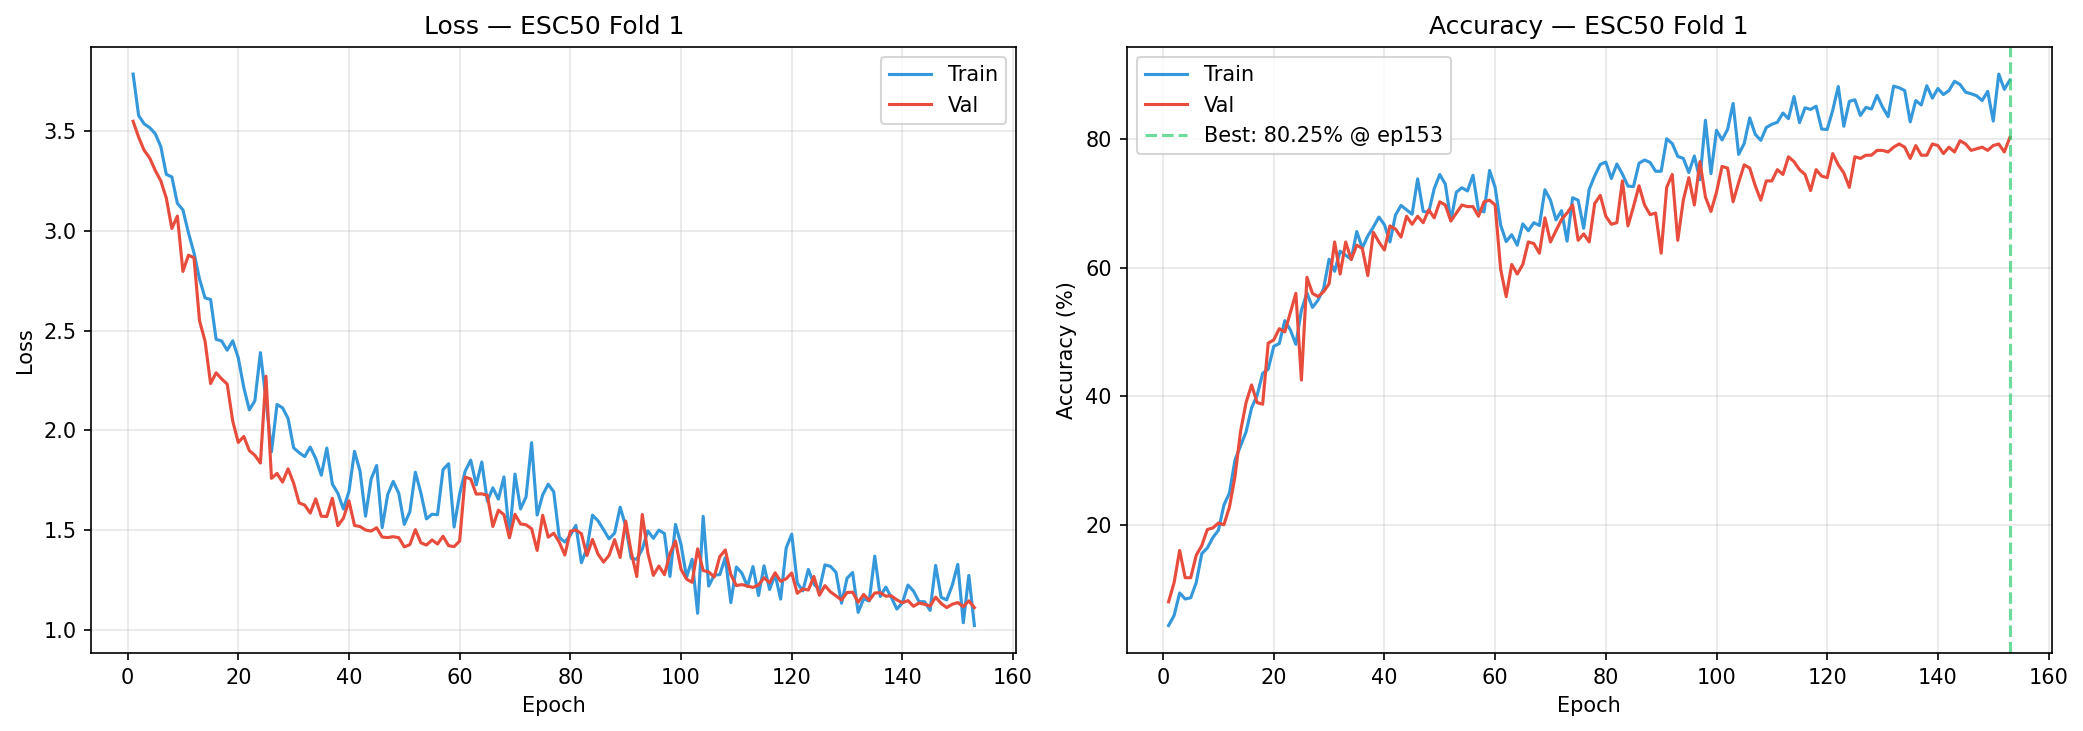
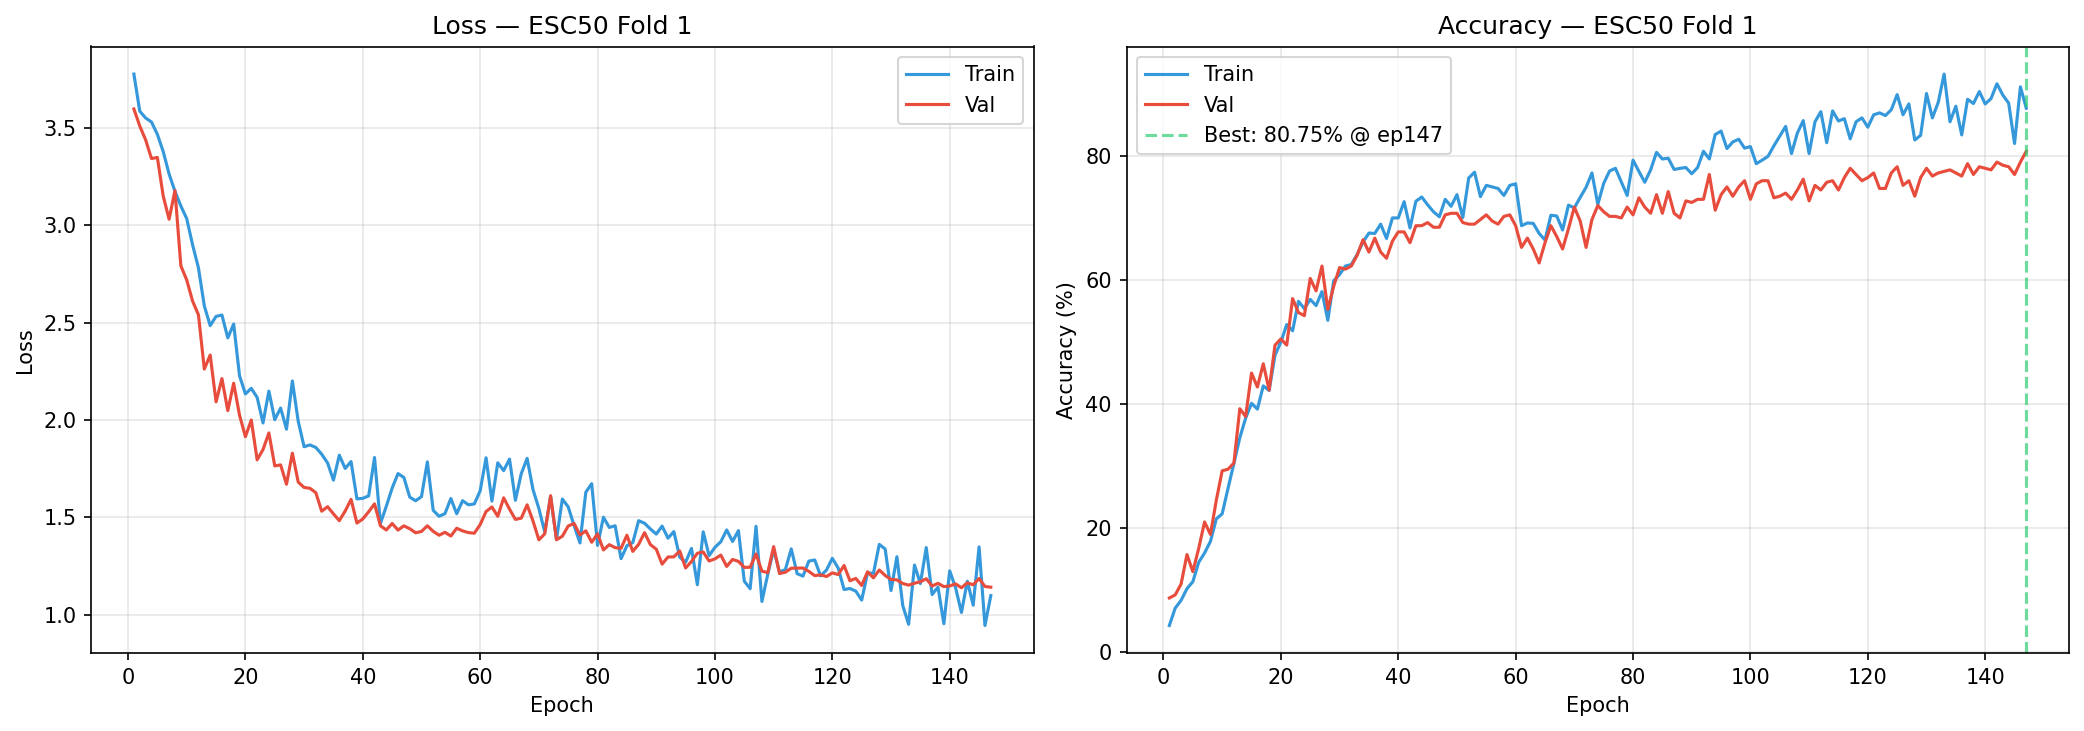
Upgraded MR-AFCNN activations to SiLU, reached 80.75% validation accuracy

diff --git a/train.py b/train.py
@@ -55,8 +55,9 @@ def set_seed(seed: int = 42):
     np.random.seed(seed)
     torch.manual_seed(seed)
     torch.cuda.manual_seed_all(seed)
-    torch.backends.cudnn.deterministic = True
-    torch.backends.cudnn.benchmark     = False
+    # For fixed-size convolutions (like 128x128 mels), benchmark=True is much faster
+    torch.backends.cudnn.deterministic = False
+    torch.backends.cudnn.benchmark     = True
 
 
 # ---------------------------------------------------------------------------
@@ -79,7 +80,7 @@ class TrainConfig:
 
     # Training
     BATCH_SIZE:    int   = 32
-    NUM_WORKERS:   int   = 4
+    NUM_WORKERS:   int   = 0
     EPOCHS:        int   = 200
     GRAD_CLIP:     float = 5.0
 
@@ -308,12 +309,12 @@ def train_fold(
     # ---- Data loaders ----
     train_dl = get_dataloader(
         train_ds, batch_size=TCFG.BATCH_SIZE,
-        shuffle=True,  num_workers=TCFG.NUM_WORKERS,
+        shuffle=True,  num_workers=args.num_workers,
         use_mixup=TCFG.USE_MIXUP, mixup_alpha=TCFG.MIXUP_ALPHA
     )
     test_dl = get_dataloader(
         test_ds, batch_size=TCFG.BATCH_SIZE,
-        shuffle=False, num_workers=TCFG.NUM_WORKERS,
+        shuffle=False, num_workers=args.num_workers,
         use_mixup=False
     )
 
@@ -555,6 +556,8 @@ def parse_args():
                    help=f'Learning rate (default: {TCFG.LR})')
     p.add_argument('--base_channels', type=int, default=64,
                    help='Base channel width (default: 64)')
+    p.add_argument('--num_workers', type=int, default=TCFG.NUM_WORKERS,
+                   help=f'Number of data loading workers (default: {TCFG.NUM_WORKERS})')
     p.add_argument('--no_mixup', action='store_true',
                    help='Disable Mixup augmentation')
     p.add_argument('--no_amp', action='store_true',
@@ -563,6 +566,7 @@ def parse_args():
                    help='Cache all spectrograms in RAM')
     p.add_argument('--resume', type=str, default=None,
                    help='Path to checkpoint to resume from')
+
     p.add_argument('--seed', type=int, default=TCFG.SEED,
                    help=f'Random seed (default: {TCFG.SEED})')
     return p.parse_args()
@@ -579,5 +583,6 @@ if __name__ == '__main__':
     TCFG.AMP        = not args.no_amp
     TCFG.CACHE      = args.cache
     TCFG.SEED       = args.seed
+    TCFG.NUM_WORKERS = args.num_workers
 
     run_cross_validation(args)

diff --git a/model.py b/model.py
@@ -7,7 +7,7 @@ class DepthwiseSeparableConv(nn.Module):
         self.depthwise = nn.Conv2d(in_ch, in_ch, kernel_size=3, padding=1, stride=stride, groups=in_ch, bias=False)
         self.pointwise = nn.Conv2d(in_ch, out_ch, kernel_size=1, bias=False)
         self.bn = nn.BatchNorm2d(out_ch)
-        self.relu = nn.ReLU(inplace=True)
+        self.relu = nn.SiLU(inplace=True)
 
     def forward(self, x):
         return self.relu(self.bn(self.pointwise(self.depthwise(x))))
@@ -17,7 +17,7 @@ class MRAFCNNBlock(nn.Module):
         super().__init__()
         self.conv1 = nn.Conv2d(in_ch, out_ch, kernel_size=1, bias=False)
         self.bn1 = nn.BatchNorm2d(out_ch)
-        self.relu = nn.ReLU(inplace=True)
+        self.relu = nn.SiLU(inplace=True)
         # Expected by GradCAM in evaluate.py: target_layer = model.stage3[-1].conv2.pointwise
         self.conv2 = DepthwiseSeparableConv(out_ch, out_ch, stride=stride)
         
@@ -32,7 +32,7 @@ class MRAFCNNBlock(nn.Module):
         self.ca = nn.Sequential(
             nn.AdaptiveAvgPool2d(1),
             nn.Conv2d(out_ch, out_ch // 4 if out_ch // 4 > 0 else 1, 1),
-            nn.ReLU(inplace=True),
+            nn.SiLU(inplace=True),
             nn.Conv2d(out_ch // 4 if out_ch // 4 > 0 else 1, out_ch, 1),
             nn.Sigmoid()
         )
@@ -51,7 +51,7 @@ class MRAFCNN(nn.Module):
         self.stem = nn.Sequential(
             nn.Conv2d(1, base_channels, kernel_size=3, stride=2, padding=1, bias=False),
             nn.BatchNorm2d(base_channels),
-            nn.ReLU(inplace=True)
+            nn.SiLU(inplace=True)
         )
         
         self.stage1 = self._make_stage(base_channels, base_channels*2, num_blocks=2, stride=2)
